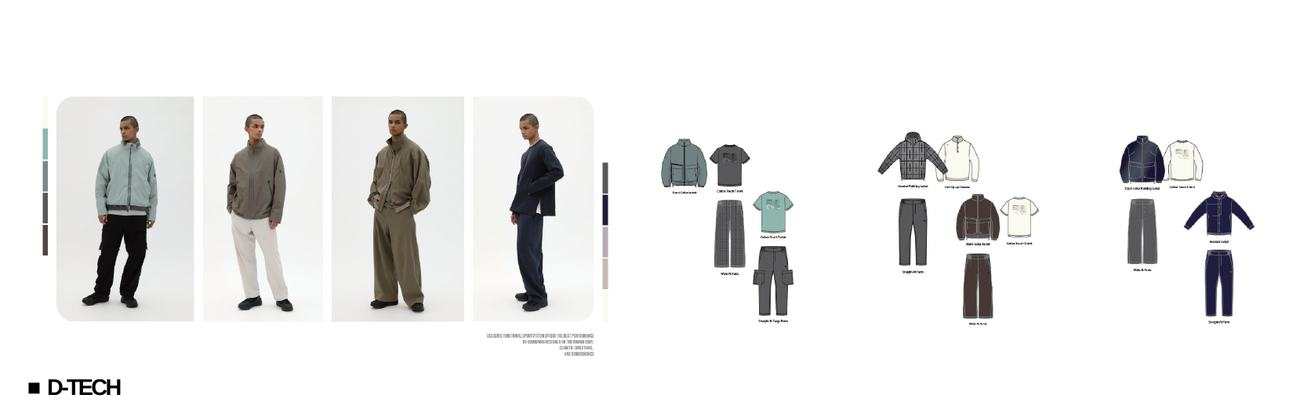
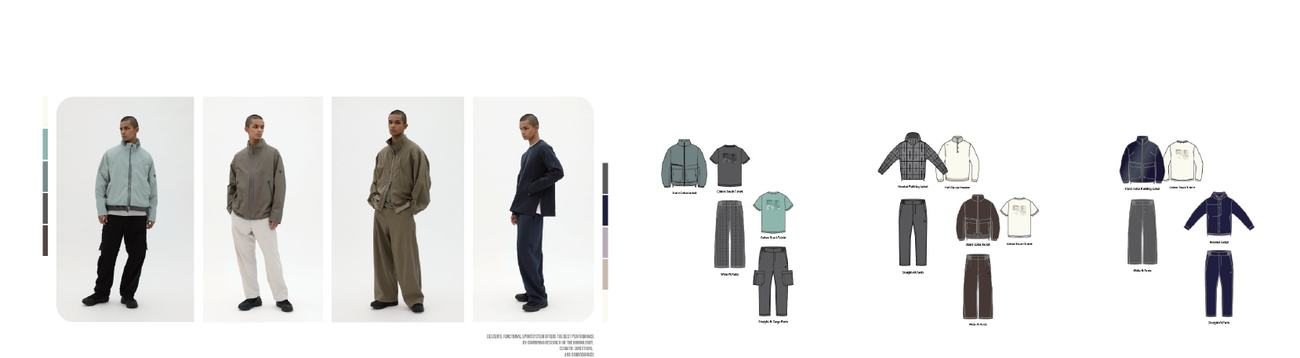
簡報圖改小縮圖、拿掉小類列並合進系列列、目前篩選提示條加明顯
Claude-Session: https://claude.ai/code/session_011uToBEKcrMMaCRGxRo7Jca

diff --git a/index.html b/index.html
@@ -53,8 +53,10 @@
 .st[aria-pressed="true"]{color:var(--fg);border-bottom-color:var(--acc);font-weight:600}
 .st[disabled]{opacity:.4;cursor:default}
 .st .dot{min-width:18px;height:18px;padding:0 5px;border-radius:9px;background:var(--acc);color:var(--acc-ink);font-size:11px;font-family:var(--f-mono);display:inline-grid;place-items:center}
-.crumb{display:flex;align-items:center;justify-content:space-between;gap:12px;margin-left:44px;font-size:12px;color:var(--muted)}
-.crumb button{border:0;background:transparent;color:var(--acc);font-size:12px;padding:2px 0}
+.crumb{display:flex;align-items:center;justify-content:space-between;gap:12px;font-size:14px;color:var(--fg);background:var(--acc-soft);border-left:4px solid var(--acc);border-radius:4px;padding:8px 12px}
+.crumb-l{display:inline-block;background:var(--acc);color:var(--acc-ink);border-radius:3px;padding:1px 8px;margin-right:10px;font-size:12.5px;font-weight:700;letter-spacing:.06em}
+.crumb b{font-weight:700}
+.crumb button{border:0;background:transparent;color:var(--acc);font-size:13px;font-weight:600;padding:2px 0}
 @media (max-width:760px){
   .lv{gap:8px}.lv-l{width:26px;font-size:10.5px}
   .seg .sg{padding:6px 11px}
@@ -224,10 +226,10 @@ main{padding-block:12px}
 .fitB{display:inline-flex;align-items:baseline;gap:5px;align-self:center;background:var(--fg);color:var(--bg);border-radius:4px;padding:2px 9px;font-family:var(--f-body);font-size:14px;font-weight:700;line-height:1.35;letter-spacing:.02em}
 .fitB small{font-size:11px;font-weight:600;opacity:.75;letter-spacing:.04em}
 .thmB{display:inline-flex;align-items:center;align-self:center;background:var(--brand);color:var(--brand-ink);border-radius:4px;padding:2px 9px;font-family:var(--f-disp);font-size:15px;font-weight:700;line-height:1.35;letter-spacing:.06em;text-transform:uppercase}
-.sintro{background:var(--surface);border:1px solid var(--line);border-left:5px solid var(--brand);border-radius:var(--r);padding:16px 18px 14px;margin:0 0 20px}
+.sintro{background:var(--surface);border:1px solid var(--line);border-left:5px solid var(--brand);border-radius:var(--r);padding:14px 18px 14px;margin:0 0 20px}
 .sintro h2{margin:0 0 10px;font-family:var(--f-disp);font-weight:700;font-size:30px;letter-spacing:.05em;text-transform:uppercase}
 .sintro h2 span{font-family:var(--f-body);font-size:13px;font-weight:400;letter-spacing:0;color:var(--muted);text-transform:none;margin-left:10px}
-.sintro p{margin:0;font-size:16.5px;line-height:1.85}
+.sintro p{margin:0;font-size:16px;line-height:1.8;max-width:62em}
 .skey{display:flex;gap:10px;align-items:baseline;margin-top:12px;font-size:15.5px;line-height:1.7}
 .skey b{flex:none;background:var(--brand);color:var(--brand-ink);border-radius:3px;padding:1px 9px;font-size:13px;font-weight:700;letter-spacing:.06em}
 .sthemes{display:grid;grid-template-columns:repeat(auto-fit,minmax(340px,1fr));gap:12px;margin-top:18px}
@@ -242,12 +244,12 @@ main{padding-block:12px}
 .shero{display:block;width:100%;padding:0;border:1px solid var(--line);border-radius:4px;background:#fff;cursor:zoom-in;overflow:hidden}
 .shero img{display:block;width:100%;height:auto}
 .sintro-l .sthemes{grid-template-columns:1fr;margin-top:12px}
-.sthm{display:flex;gap:6px;margin-top:8px}
-.sthm.wide{margin-top:16px}
-.sthm.wide .sthi{max-width:900px}
-.sthi{flex:1;min-width:0;padding:0;border:1px solid var(--line);border-radius:3px;background:#fff;cursor:zoom-in;overflow:hidden}
-.sthi img{display:block;width:100%;height:auto}
-.sthcap{font-size:12.5px;color:var(--muted);margin-top:3px}
+.sthm{display:flex;gap:8px;margin-top:10px;align-items:flex-end;flex-wrap:wrap}
+.sthm.top{margin-top:14px}
+.sthi{flex:none;height:96px;padding:0;border:1px solid var(--line);border-radius:3px;background:#fff;cursor:zoom-in;overflow:hidden}
+.sthi:hover{border-color:var(--brand)}
+.sthi img{display:block;height:100%;width:auto}
+.sthcap{font-size:12px;line-height:1.4;color:var(--muted)}
 .sxz{max-width:min(96vw,1500px);max-height:94vh;background:#fff;padding:0}
 .sxz img{display:block;max-width:100%;max-height:calc(94vh - 44px);width:auto;height:auto;margin:0 auto}
 .sxz .zm-bar{padding:8px 14px;font-size:13px}
@@ -458,7 +460,7 @@ tfoot td{font-weight:700;background:var(--sunk)}
       <div class="lv lv-gen"><span class="lv-l">性別</span><div class="seg" id="gens" role="toolbar" aria-label="性別"></div></div>
       <div class="lv lv-cg"><span class="lv-l">大類</span><div class="cgs" id="cgs" role="toolbar" aria-label="大類"></div></div>
       <div class="lv lv-sr"><span class="lv-l">系列</span><div class="tabs" id="tabs" role="toolbar" aria-label="系列"></div></div>
-      <div class="lv lv-sub" id="subLv"><span class="lv-l">小類</span><div class="subs" id="subtabs" role="toolbar" aria-label="小類"></div></div>
+      <div id="subtabs" hidden></div>
       <div class="row2">
         <input class="search" id="q" type="search" placeholder="搜尋品名、款號、色碼、顏色">
         <label class="toggle"><input type="checkbox" id="only"> 只看已下單</label>
@@ -637,8 +639,7 @@ function renderTabs(){
   $('#cgs').innerHTML = ct('','全部',gI.length,S.cgs.size===0)+CG_ORDER.map(g=>ct(g,g,gI.filter(i=>cgOf(i)===g).length,S.cgs.has(g))).join('');
   const isSub=s=>/^(ACC|FTW)/.test(s);
   const btn=(s,cls)=>{ const n=gI.filter(i=>i.sheet===s&&inCg(i)).length; const d=t.bySheet[s]; return `<button class="${cls}" data-s="${s}" aria-pressed="${S.sheet===s}"${n?'':' disabled'}>${s}<small>${n}</small>${d?`<span class="dot">${d}</span>`:''}</button>`; };
-  $('#tabs').innerHTML = SHEETS.filter(s=>!isSub(s)).map(s=>btn(s,'tab')).join('');
-  $('#subtabs').innerHTML = SHEETS.filter(isSub).map(s=>btn(s,'st')).join('');
+  $('#tabs').innerHTML = SHEETS.map(s=>btn(s,'tab')).join('');
 }
 // 性別／大類：上方膠囊列，單選；目前大類在新性別下沒有商品就回到全部大類，目前分頁沒有符合的就跳到第一個有的分頁
 function fixSel(){ const inG=i=>!S.gens.size||S.gens.has(i.gen); if(S.cgs.size&&!ITEMS.some(i=>inG(i)&&S.cgs.has(cgOf(i)))) S.cgs.clear();
@@ -771,15 +772,16 @@ function seriesIntro(){
   });
   let si=SHEET_INTRO[S.sheet];
   const hero=SERIES_HERO[S.sheet];
-  const thumbs=(e,wide)=>e.imgs.length?`<div class="sthm${wide?' wide':''}">${e.imgs.map((n,i)=>`<button class="sthi" data-sx="${n}" data-cap="${esc(S.sheet+'・'+e.k+' 款式總覽'+(e.imgs.length>1?'（'+(i+1)+'/'+e.imgs.length+'）':''))}"><img src="${sxName(n)}" alt="${esc(e.k)} 款式總覽" loading="lazy" decoding="async"></button>`).join('')}</div><div class="sthcap">款式總覽，點圖放大</div>`:'';
+  const tb=(n,cap,alt)=>`<button class="sthi" data-sx="${n}" data-cap="${esc(cap)}"><img src="${sxName(n)}" alt="${esc(alt)}" loading="lazy" decoding="async"></button>`;
+  const thumbs=e=>e.imgs.length?`<div class="sthm">${e.imgs.map((n,i)=>tb(n,S.sheet+'・'+e.k+' 款式總覽'+(e.imgs.length>1?'（'+(i+1)+'/'+e.imgs.length+'）':''),e.k+' 款式總覽')).join('')}<span class="sthcap">款式總覽<br>點圖放大</span></div>`:'';
   const keyH=k=>k?`<div class="skey"><b>主打</b><span>${esc(k)}</span></div>`:'';
-  let cards=ents, wideImgs='';
-  if(!si && ents.length===1){ const e=ents[0]; si={t:e.body,k:e.key}; wideImgs=thumbs(e,true); cards=[]; }
-  const heroH=hero?`<button class="shero" data-sx="${hero}" data-cap="${esc(S.sheet+' 系列形象圖')}"><img src="${sxName(hero)}" alt="${esc(S.sheet)} 系列形象圖" loading="lazy" decoding="async"></button>`:'';
-  const head=`<h2>${esc(S.sheet)}<span>系列介紹（原廠 27Q3Q4 Convention Sheet）</span></h2>${si?`<p>${esc(si.t)}</p>${keyH(si.k)}`:''}`;
-  const grid=cards.length?`<div class="sthemes">${cards.map(e=>`<div class="sth"><h3>${esc(e.k)}<span>${e.n} 款色</span></h3><p>${esc(e.body)}</p>${keyH(e.key)}${thumbs(e,false)}</div>`).join('')}</div>`:'';
-  const top=hero?`<div class="sintro-top"><div class="sintro-l">${head}</div>${heroH}</div>`:head;
-  return `<section class="sintro">${top}${wideImgs}${grid}</section>`;
+  let cards=ents, extra=[];
+  if(!si && ents.length===1){ const e=ents[0]; si={t:e.body,k:e.key}; extra=e.imgs.map((n,i)=>tb(n,S.sheet+'・'+e.k+' 款式總覽',e.k+' 款式總覽')); cards=[]; }
+  const media=(hero?[tb(hero,S.sheet+' 系列形象圖',S.sheet+' 系列形象圖')]:[]).concat(extra);
+  const mediaH=media.length?`<div class="sthm top">${media.join('')}<span class="sthcap">原廠簡報圖<br>點圖放大</span></div>`:'';
+  const head=`<h2>${esc(S.sheet)}<span>系列介紹（原廠 27Q3Q4 Convention Sheet）</span></h2>${si?`<p>${esc(si.t)}</p>${keyH(si.k)}`:''}${mediaH}`;
+  const grid=cards.length?`<div class="sthemes">${cards.map(e=>`<div class="sth"><h3>${esc(e.k)}<span>${e.n} 款色</span></h3><p>${esc(e.body)}</p>${keyH(e.key)}${thumbs(e)}</div>`).join('')}</div>`:'';
+  return `<section class="sintro">${head}${grid}</section>`;
 }
 function fitOf(it){ const m=String(it.fab||'').match(/版型[：:]\s*([^\n]+)/); return m?m[1].trim():''; }
 function renderList(){
@@ -1673,7 +1675,7 @@ renderAll();
     var n=document.querySelectorAll('#list .item').length;
     var qv=q&&q.value.trim(); var l1=path.join(' › ')||'全部', l2=n+' 款色'+(qv?'・搜尋「'+qv+'」':'');
     sumEl.innerHTML='<b>'+esc(l1)+'</b>'+esc(l2);
-    if(crumb) crumb.textContent='目前：'+l1+'・共 '+n+' 款色'+(qv?'・搜尋「'+qv+'」':'');
+    if(crumb) crumb.innerHTML='<span class="crumb-l">目前篩選</span><b>'+esc(l1)+'</b>・共 '+n+' 款色'+(qv?'・搜尋「'+esc(qv)+'」':'');
     if(crumbX) crumbX.hidden=!filtered;
   }
   var tmr=null; function later(){ clearTimeout(tmr); tmr=setTimeout(update,40); }
